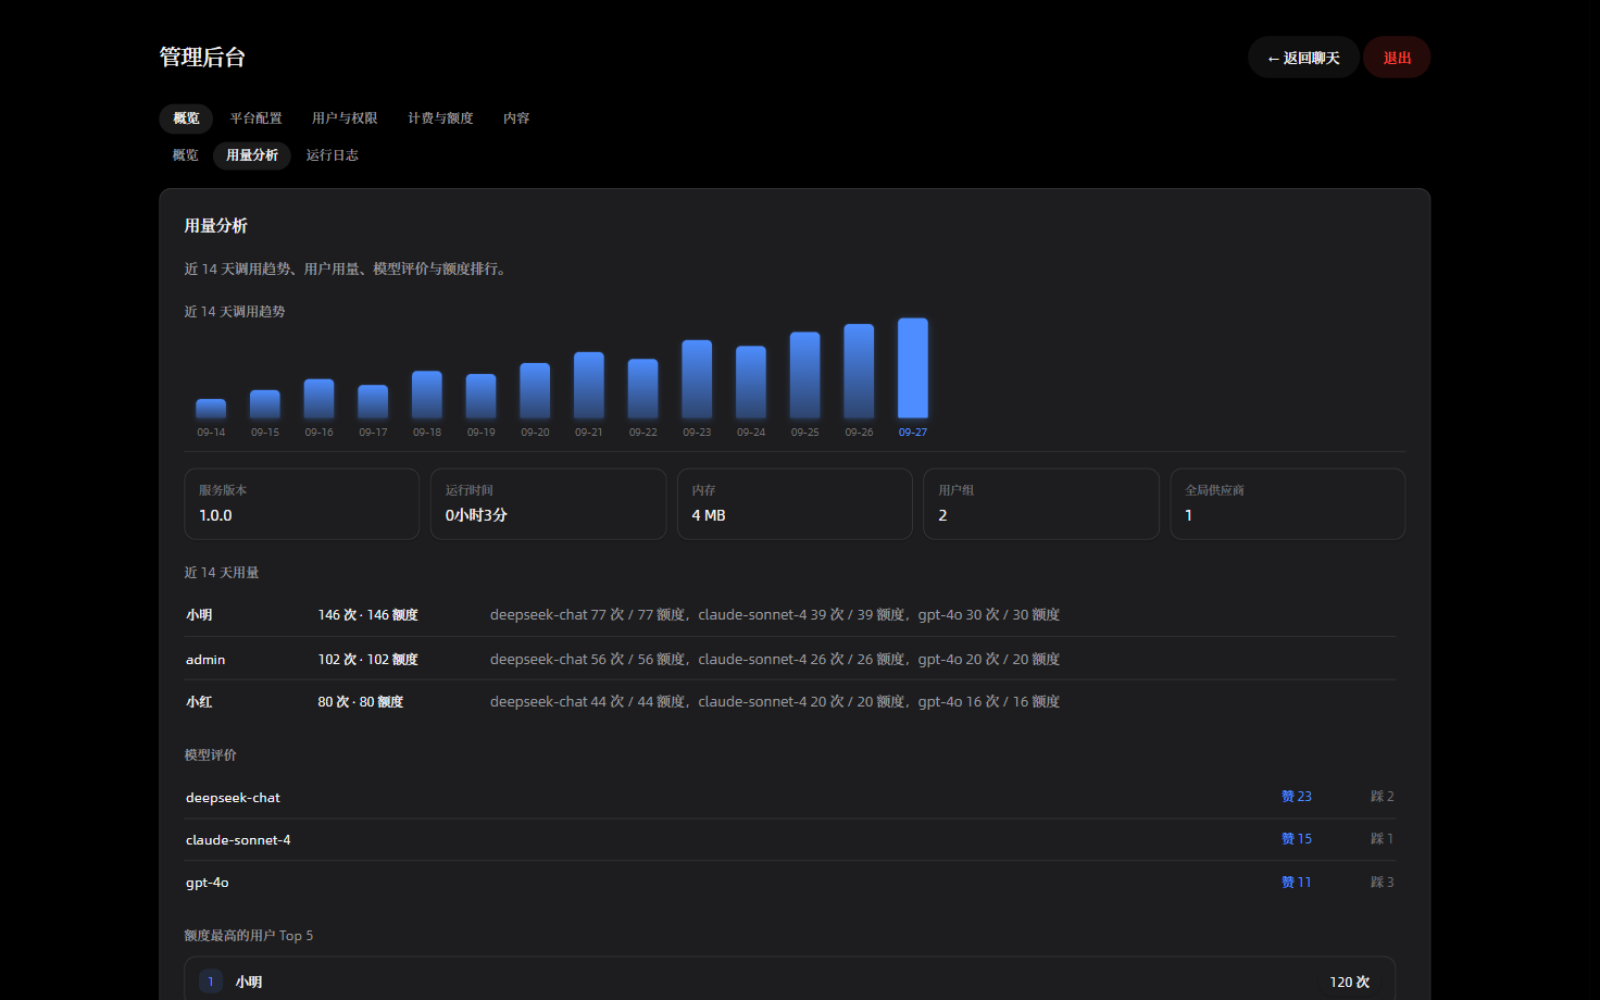
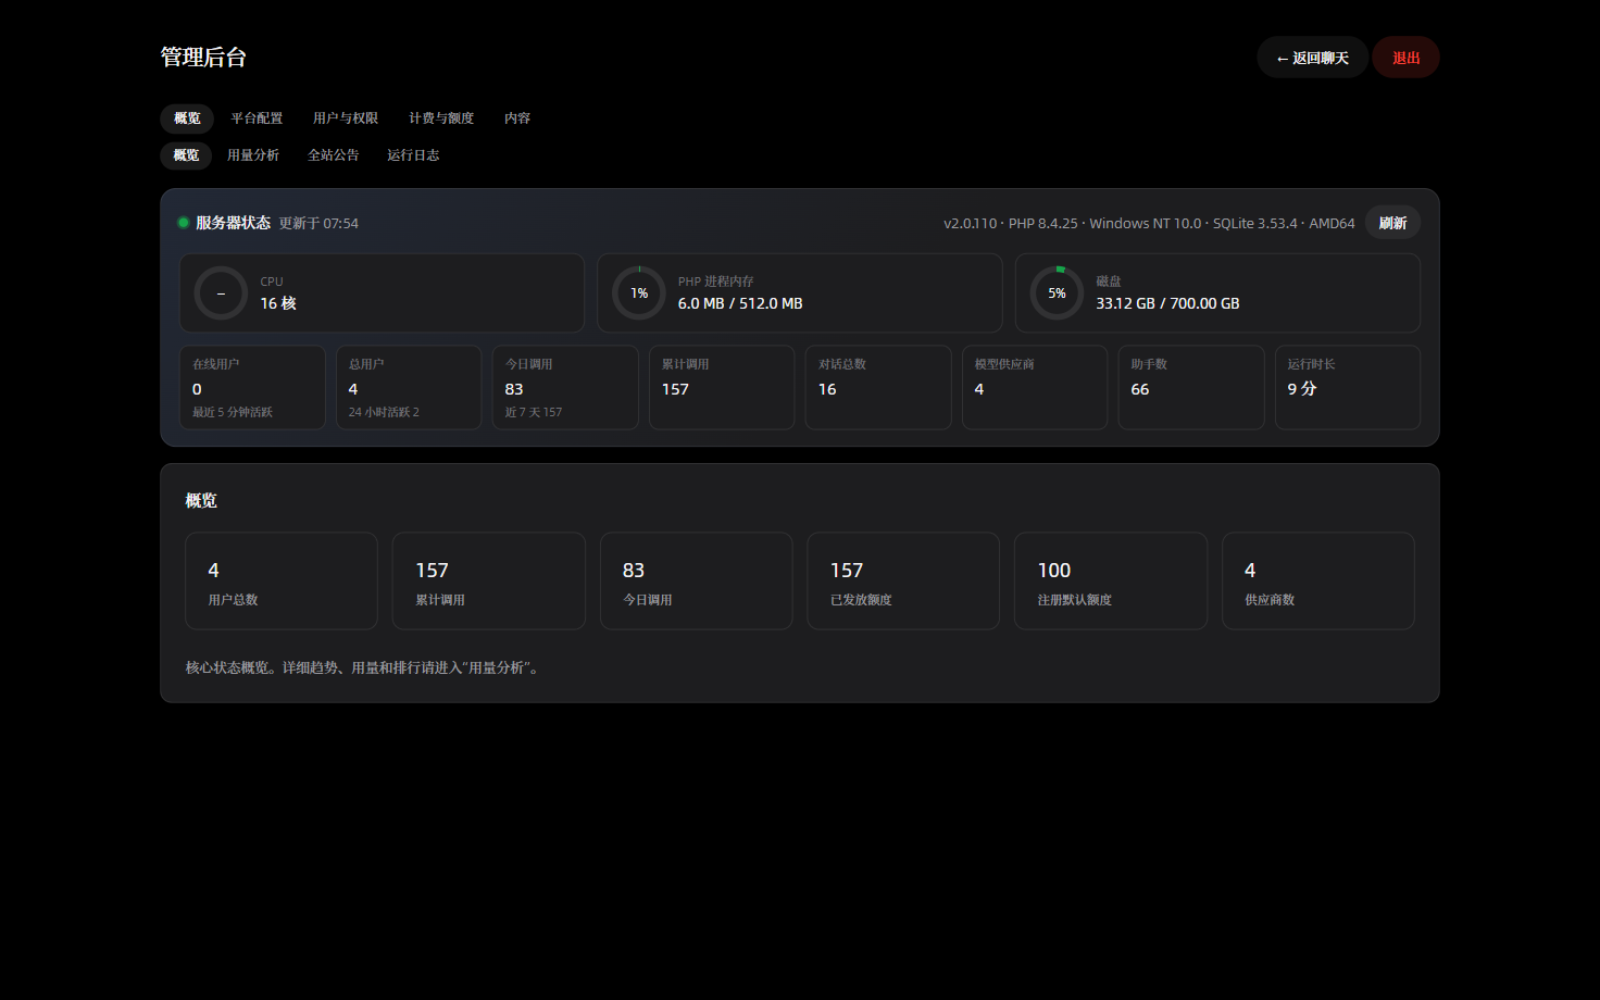
更新 README 与界面截图
补上群聊四种模式、代码块与引用的说明，并换成当前界面的深浅色对话、群聊设置和后台概览截图。

diff --git a/README.md b/README.md
@@ -25,18 +25,29 @@
 
 | 深色主题 | 浅色主题 |
 |:---:|:---:|
-| ![TinyChat 深色主题对话界面](docs/screenshots/chat-dark.png) | ![TinyChat 浅色主题对话界面](docs/screenshots/chat-light.png) |
+| ![TinyChat 深色主题对话界面，含代码块、公式与引用](docs/screenshots/chat-dark.png) | ![TinyChat 浅色主题对话界面，含代码块、公式与引用](docs/screenshots/chat-light.png) |
 
-**管理后台 · 用量分析**（近 14 天趋势、用户用量、模型评价与额度排行）：
+**群聊**：侧栏模型下方切换。每位成员单独选模型，四种协作方式互不混用。
 
-![TinyChat 管理后台用量分析](docs/screenshots/admin.png)
+| 参与人数 | 对话模式 |
+|:---:|:---:|
+| ![群聊设置 · 参与人数与成员头像](docs/screenshots/group-members.png) | ![群聊设置 · 四种对话模式](docs/screenshots/group-chat.png) |
+
+**管理后台 · 概览**（服务器状态、调用量与额度）：
+
+![TinyChat 管理后台概览](docs/screenshots/admin.png)
 
 ## ✨ 功能特性
 
 **对话体验**
 
 - ChatGPT 风格界面：浅色 / 深色主题、可调主题色、可拖动会话栏与对话列宽度
-- 流式输出、Markdown、代码高亮、KaTeX 公式、Mermaid 图表 / 思维导图
+- 流式输出、Markdown、代码高亮（代码块单一底色，语言名与复制按钮同在顶栏）、KaTeX 公式、引用块、Mermaid 图表 / 思维导图
+- **群聊**：侧栏「简单对话 / 群聊」开关进入。成员 2–8 人，各自指定模型与角色；四种模式分开运行，不混在同一次发言里
+  - 群主组织：群主点名，只请相关的人发言，再收成一个决定
+  - 自由讨论：先抛出可争论的命题，之后每轮只反驳上一位
+  - 轮流发言：按层次接力，后一位接着前一位写，不回头重写
+  - 专家协作：拆成互不重叠的子任务，每人只交自己那一份，由群主拼结论
 - 思维链展示与思考强度（关 / 低 / 中 / 高，含按模型规则自动修正）
 - 图片与文件附件、自动追问一键发送、双击 Backspace 取消生成
 - 附件解析：PDF / 图片 / Word / PPT / Excel（接 MinerU），链接读取自动抓取正文
@@ -100,6 +111,7 @@
 - OpenAI 兼容 API：`/v1/chat/completions`（含流式）、`/v1/models`、`/v1/images/generations`、`/v1/videos`；用户在「设置 → API 密钥」生成 `sk-tc-` 密钥（哈希落库、仅显示一次、数量上限可配），第三方客户端直接接入，计费与网页端一致
 - **开放 API 独立管控**：单密钥限流、站点总限流、对外可用模型白名单（未开放的模型不出现在 `/v1/models` 且调用被拒，网页端不受影响）
 - 多模型对比：同一问题并行发给 2–3 个模型，并排查看、一键投票（计入模型评价）
+- **@ 其他模型重答**：在已有回复上 @ 另一个模型，用新标签页给出另一份回答，不覆盖原文
 
 **部署与数据**
 
